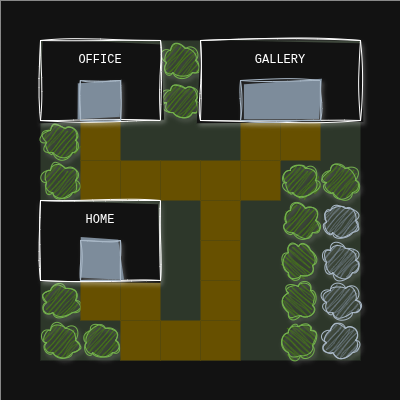
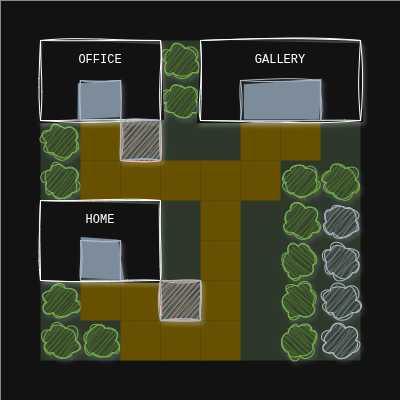
feat: add office mailbox and welcome sign

Changed region(s): [[0.39, 0.69, 0.51, 0.84], [0.3, 0.27, 0.42, 0.42]]

diff --git a/src/engine/index.ts b/src/engine/index.ts
@@ -125,18 +125,22 @@ export default class Engine {
     frameKey: string,
     promptKey: string
   ): PromptMessage | null {
-    const $content = this.$content.querySelector(
-      `[data-frame="${frameKey}"] [data-prompt="${promptKey}"]`
-    );
+    try {
+      const $content = this.$content.querySelector(
+        `[data-frame="${frameKey}"] [data-prompt="${promptKey}"]`
+      );
 
-    if (!$content) {
+      if (!$content) {
+        return null;
+      }
+
+      return {
+        title: $content.querySelector("h3")?.innerText || "",
+        message: $content.querySelector("p")?.innerText || "",
+      };
+    } catch {
       return null;
     }
-
-    return {
-      title: $content.querySelector("h3")?.innerText || "",
-      message: $content.querySelector("p")?.innerText || "",
-    };
   }
 
   private canPlayerMove(nextPosition: [number, number]): boolean {
@@ -185,9 +189,7 @@ export default class Engine {
       case FrameActionType.Prompt:
         const promptMessage = this.getPromptMessage(this.currentFrameKey, data);
 
-        if (promptMessage) {
-          this.prompt(promptMessage);
-        }
+        this.prompt(promptMessage || { title: "", message: data });
         break;
 
       default:

diff --git a/src/components/frames.ts b/src/components/frames.ts
@@ -5,6 +5,8 @@ import HomeFrameBackground from "../assets/home.png";
 import OfficeFrameBackground from "../assets/office.png";
 import GalleryFrameBackground from "../assets/gallery.png";
 
+import config from "../config";
+
 // 10 x 10 boards
 export default {
   main: new Frame(
@@ -12,16 +14,18 @@ export default {
       [1, 1, 1, 1, 1, 1, 1, 1, 1, 1],
       [1, 2, 2, 2, 1, 2, 2, 2, 2, 1],
       [1, 2, 3, 2, 1, 2, 3, 3, 2, 1],
-      [1, 1, 0, 0, 0, 0, 0, 0, 0, 1],
+      [1, 1, 0, 3, 0, 0, 0, 0, 0, 1],
       [1, 1, 0, 0, 0, 0, 0, 1, 1, 1],
       [1, 2, 2, 2, 0, 0, 0, 1, 1, 1],
       [1, 2, 3, 2, 0, 0, 0, 1, 1, 1],
-      [1, 1, 0, 0, 0, 0, 0, 1, 1, 1],
+      [1, 1, 0, 0, 3, 0, 0, 1, 1, 1],
       [1, 1, 1, 0, 0, 0, 0, 1, 1, 1],
       [1, 1, 1, 1, 1, 1, 1, 1, 1, 1],
     ],
     {
+      ["4,7"]: [FrameActionType.Prompt, config.welcomeMessage],
       ["2,2"]: [FrameActionType.Load, "office"],
+      ["3,3"]: [FrameActionType.Prompt, "Office mailbox"],
       ["6,2"]: [FrameActionType.Load, "gallery"],
       ["7,2"]: [FrameActionType.Load, "gallery"],
       ["2,6"]: [FrameActionType.Load, "home"],
